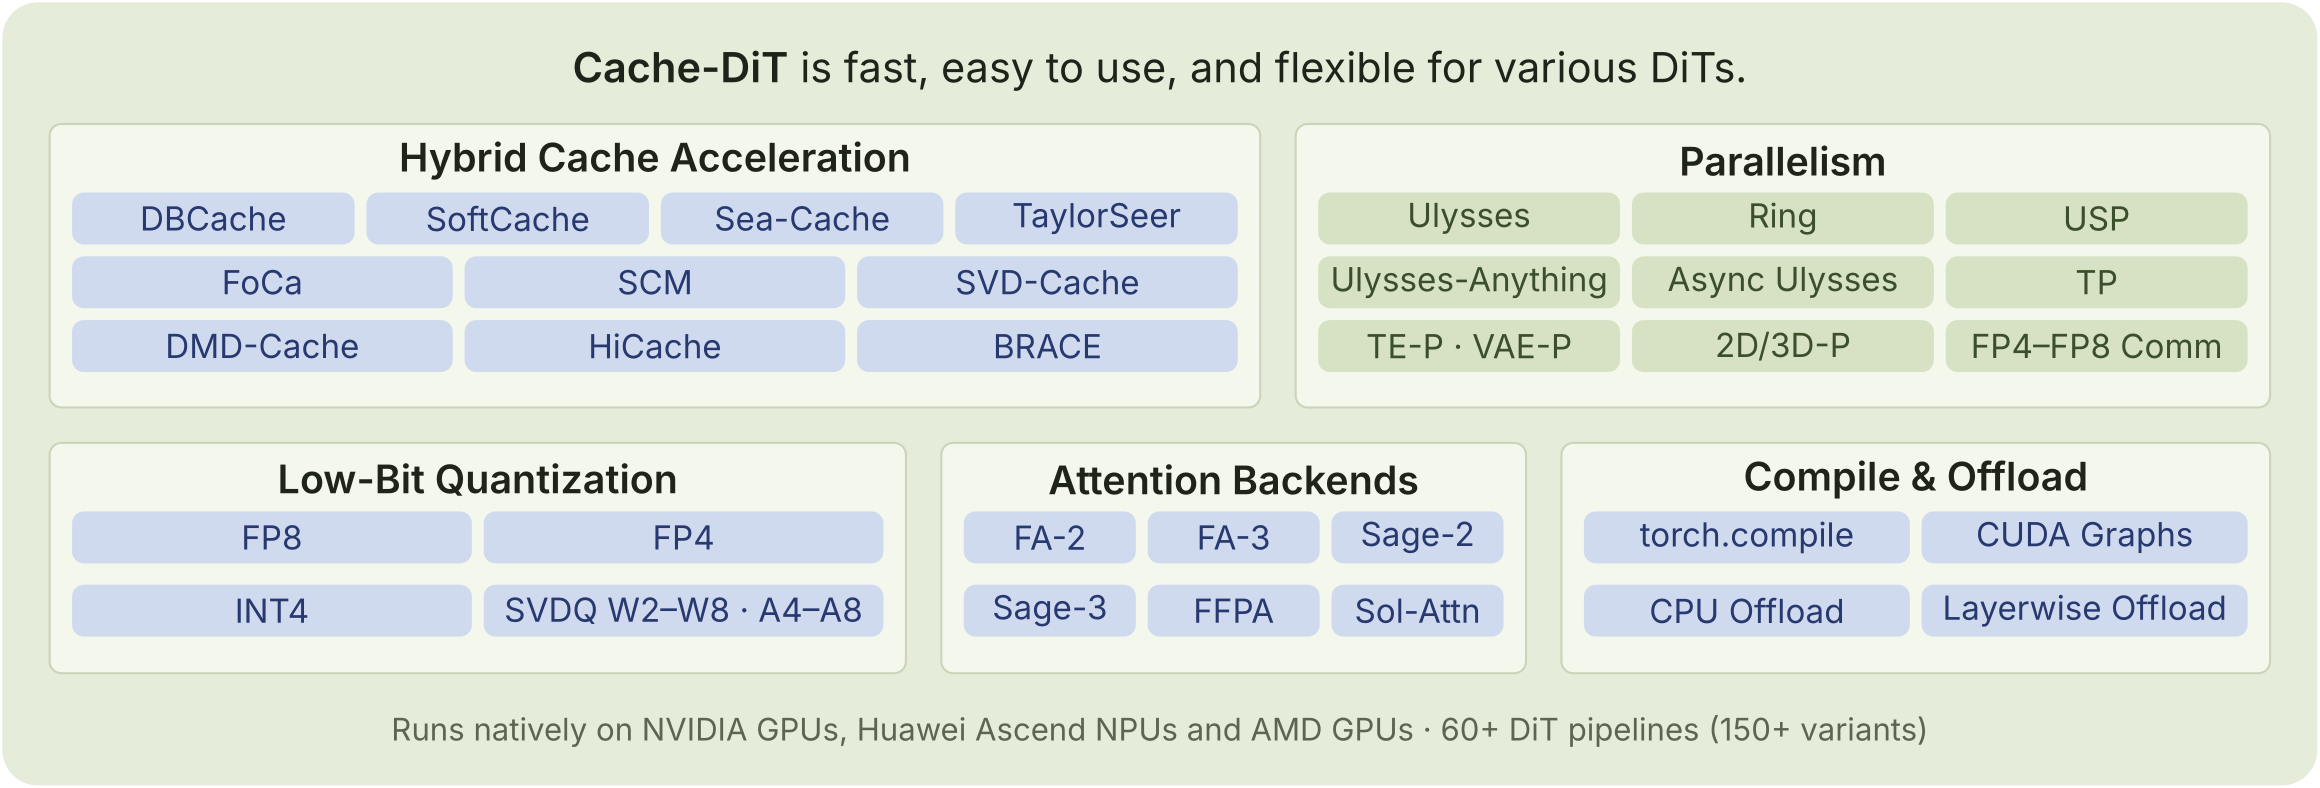
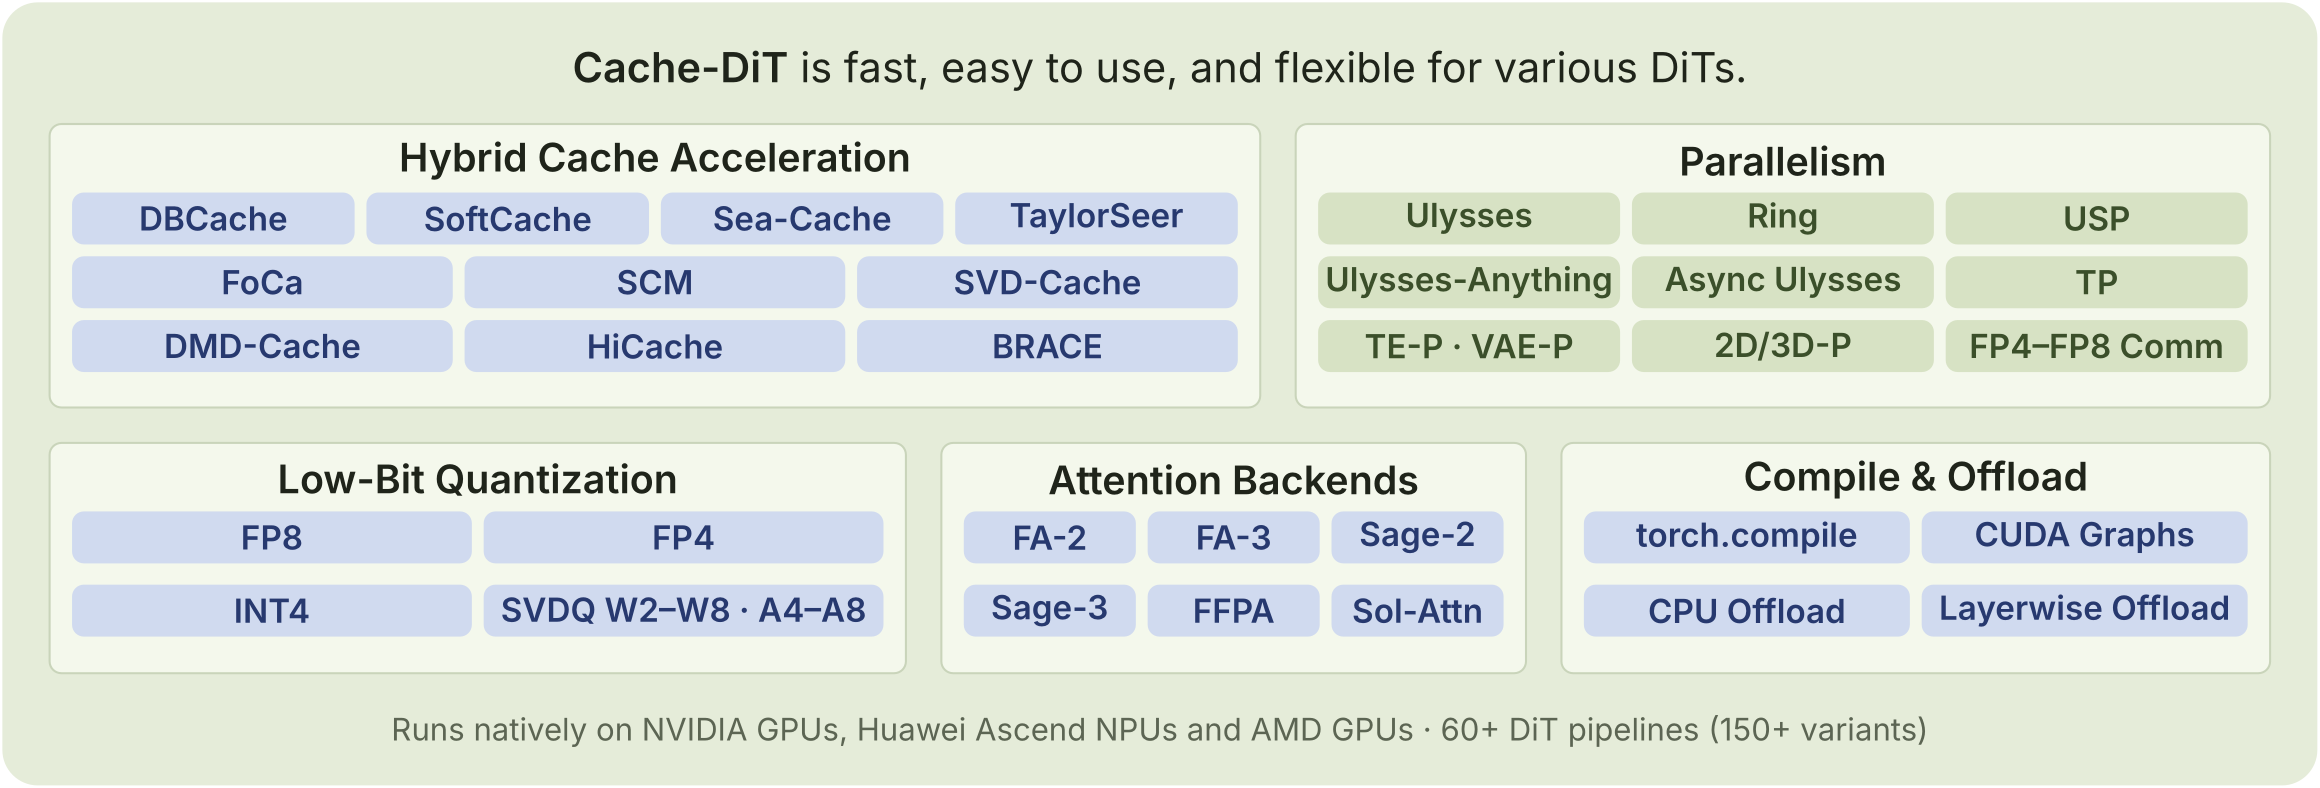
docs: bold the pill labels in the architecture figure

diff --git a/docs/assets/tex/arch_v3.tex b/docs/assets/tex/arch_v3.tex
@@ -35,7 +35,7 @@
     \pgfmathsetmacro{\cx}{#2+(\i-0.5)*#3}%
     \pgfmathsetmacro{\halfw}{#3*0.5-0.05}%
     \fill[#4, rounded corners=\pillr] ({\cx-\halfw},{#1-\pillh}) rectangle ({\cx+\halfw},{#1+\pillh});%
-    \node[text=#5, inner sep=0pt, font=\fontsize{8}{9}\selectfont] at (\cx,#1) {\it};%
+    \node[text=#5, inner sep=0pt, font=\fontsize{8}{9}\selectfont\bfseries] at (\cx,#1) {\it};%
   }%
 }
 
